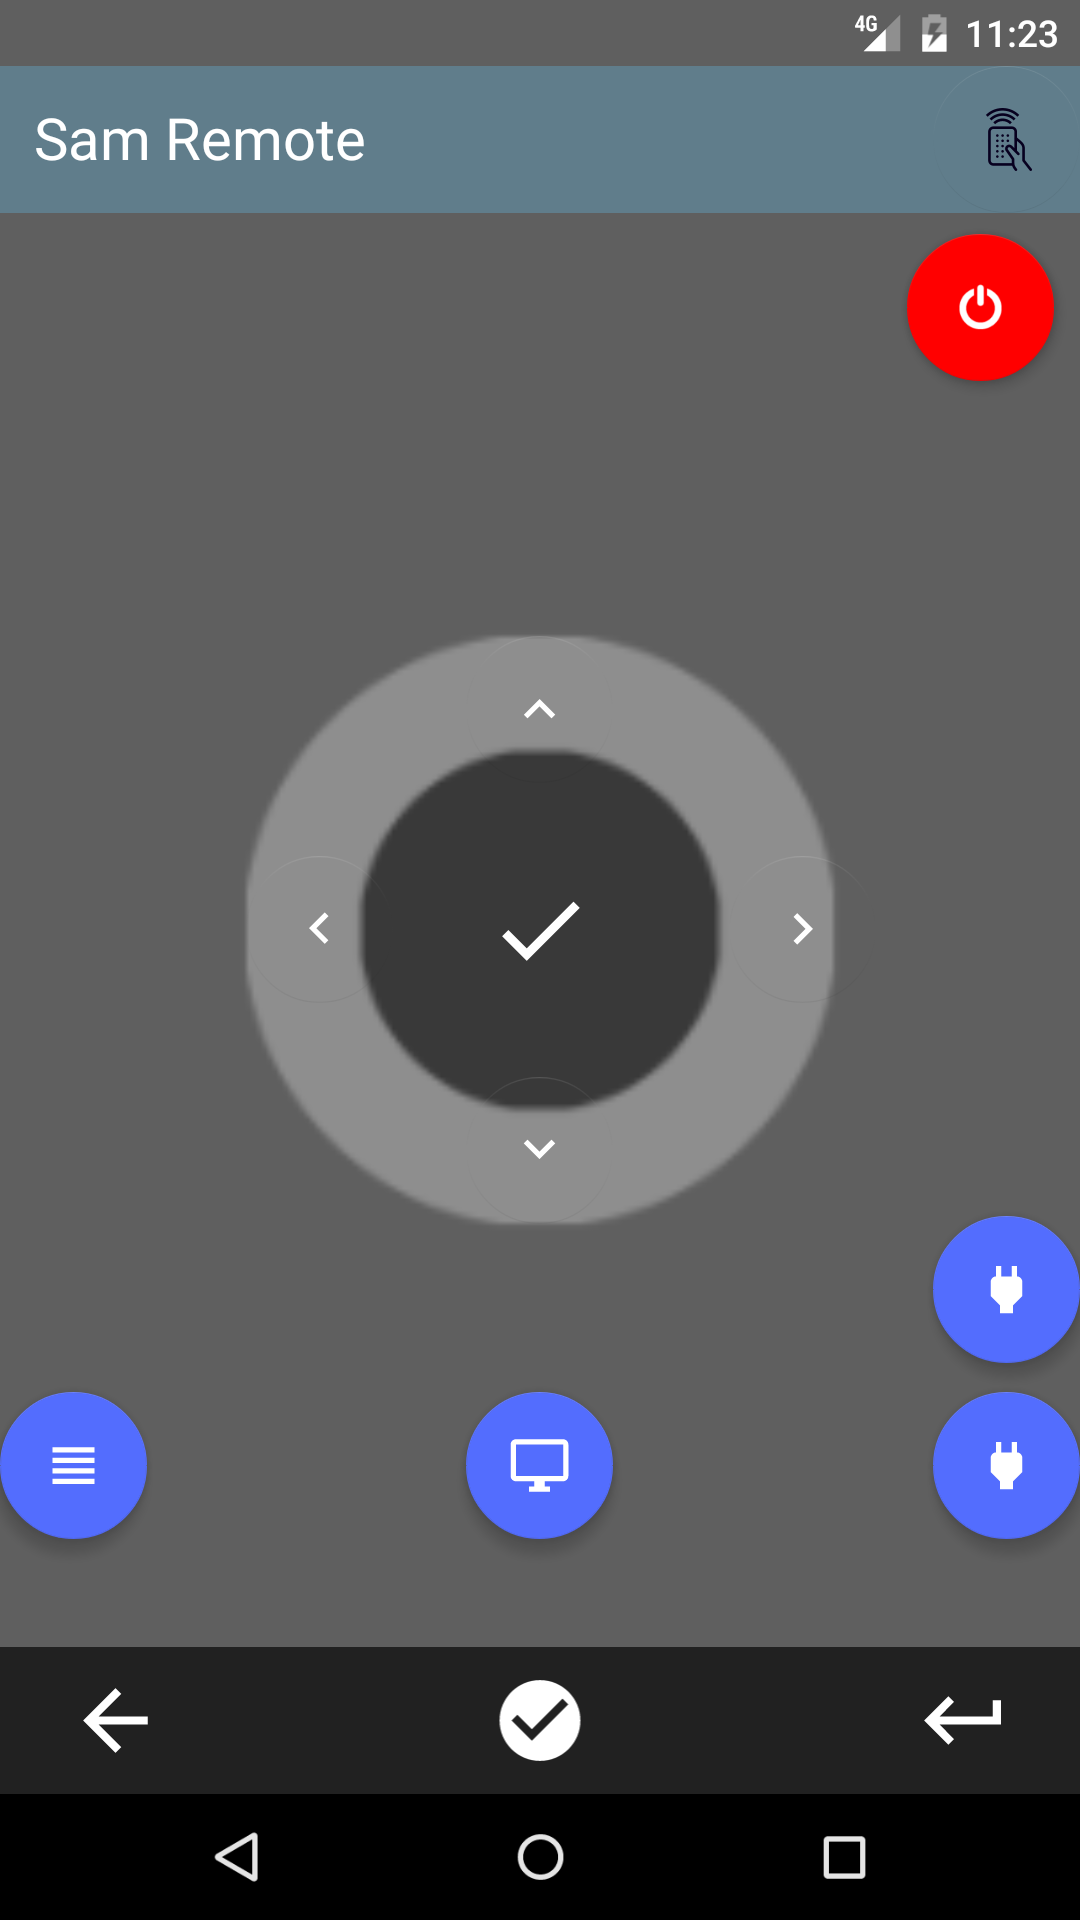
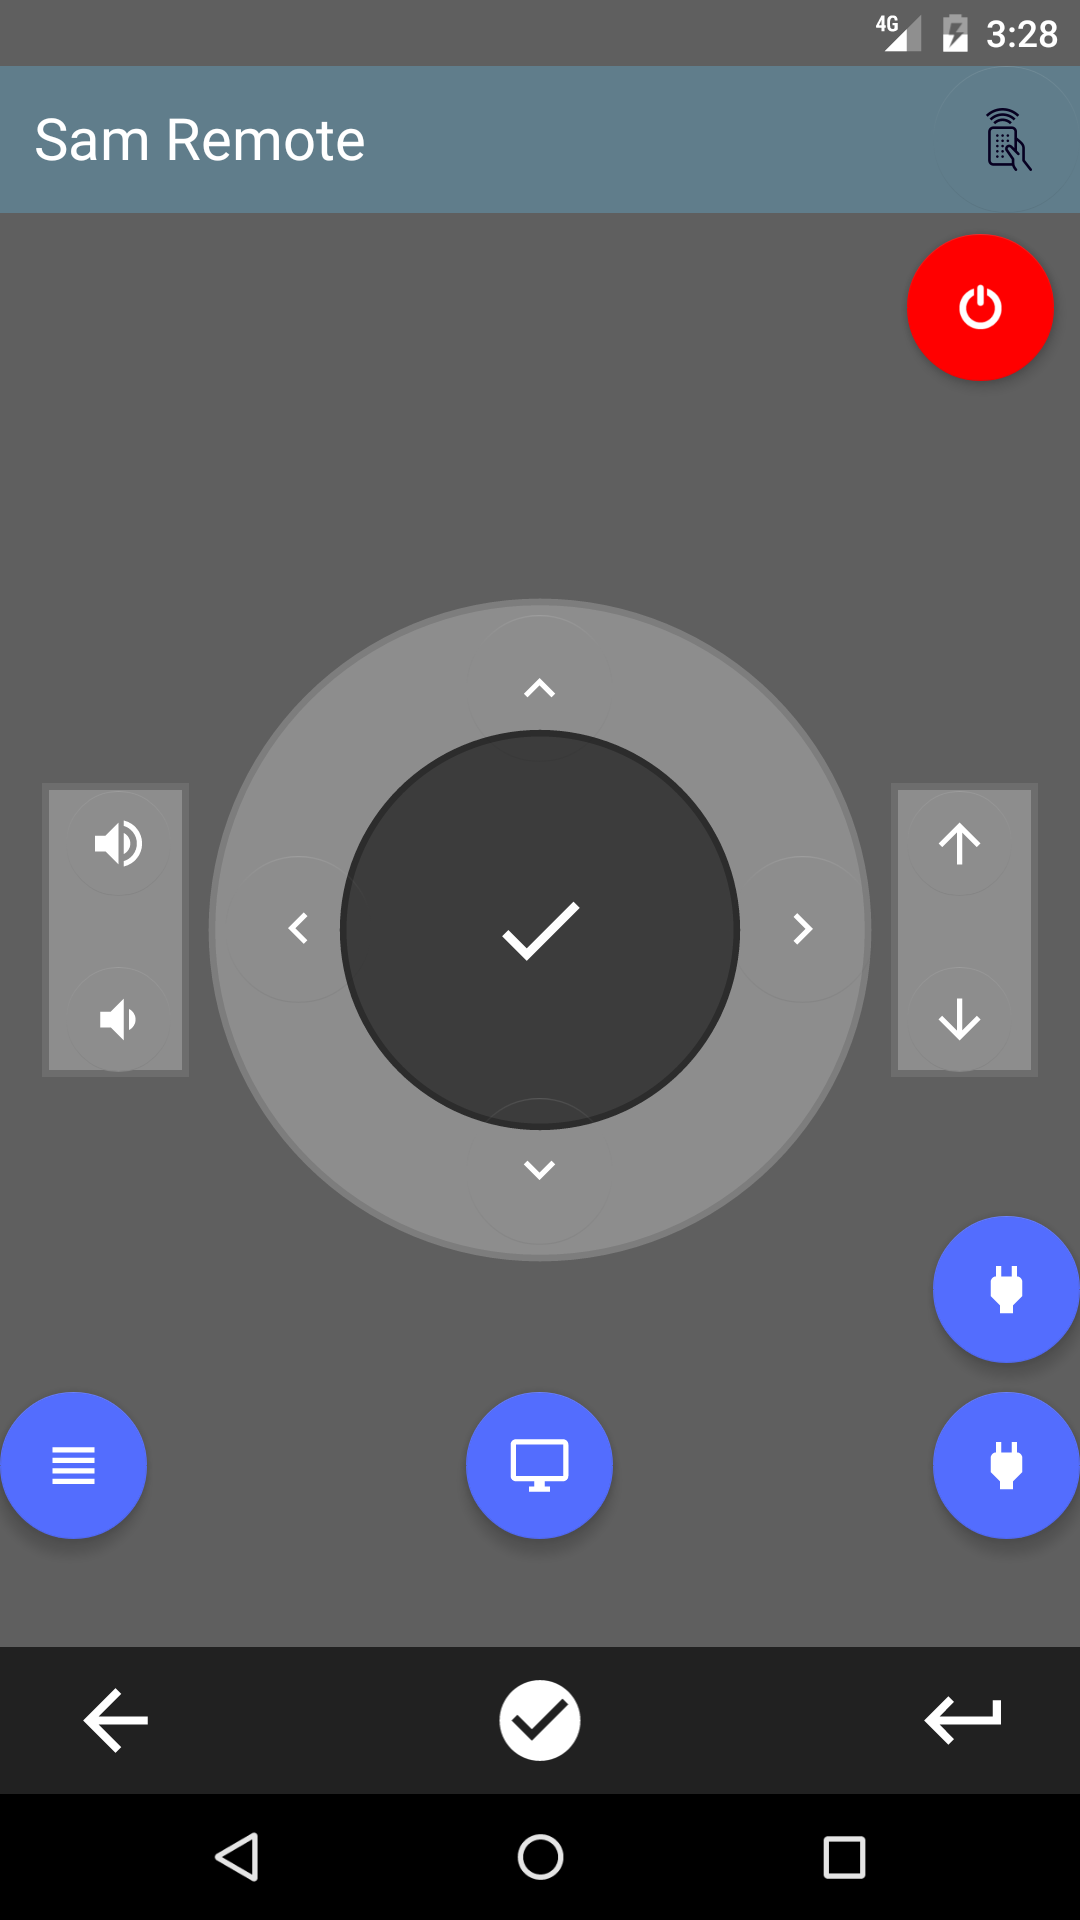
Update Screenshots and README.md

diff --git a/README.md b/README.md
@@ -2,3 +2,17 @@
 Another Samsung Remote Control App
 
 Allows you to Control your Samsung TV over WiFi
+
+## Buttons
+Navigation: Up, Down, Left, Right
+Special: Power Off, Source, (Next) HDMI, Channel List, Menu
+Navigation: Left, Right, Up, Down, Exit, Return, Enter
+Other: Volume Up/Down, Channel Up/Down
+
+Note for Wear Version: Press and Hold Enter (Tick) to switch between Volume/Channel and Navigation.
+
+Screenshots:
+![Nexus 5X (Android N)](/Screenshots/Nexus5X_N.png?raw=true "Nexus 5X")
+![Android Wear Round](/Screenshots/Wear_Round_Big.png?raw=true "Android Wear")
+
+More in Screenshots folder.
